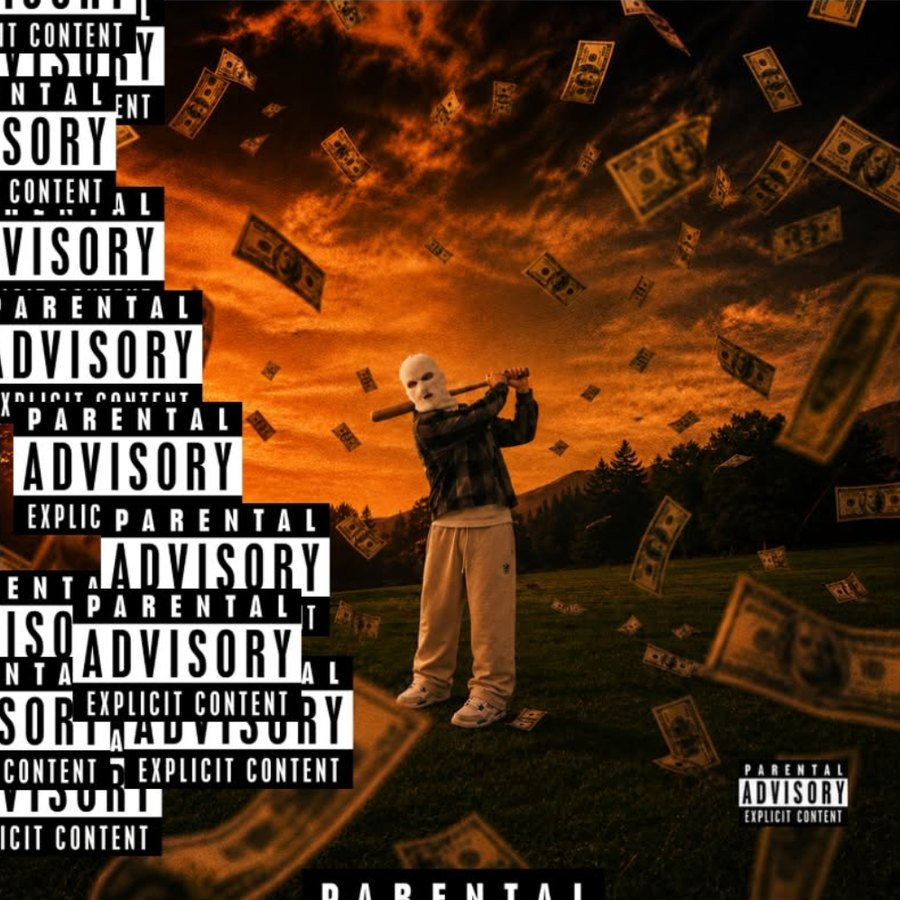
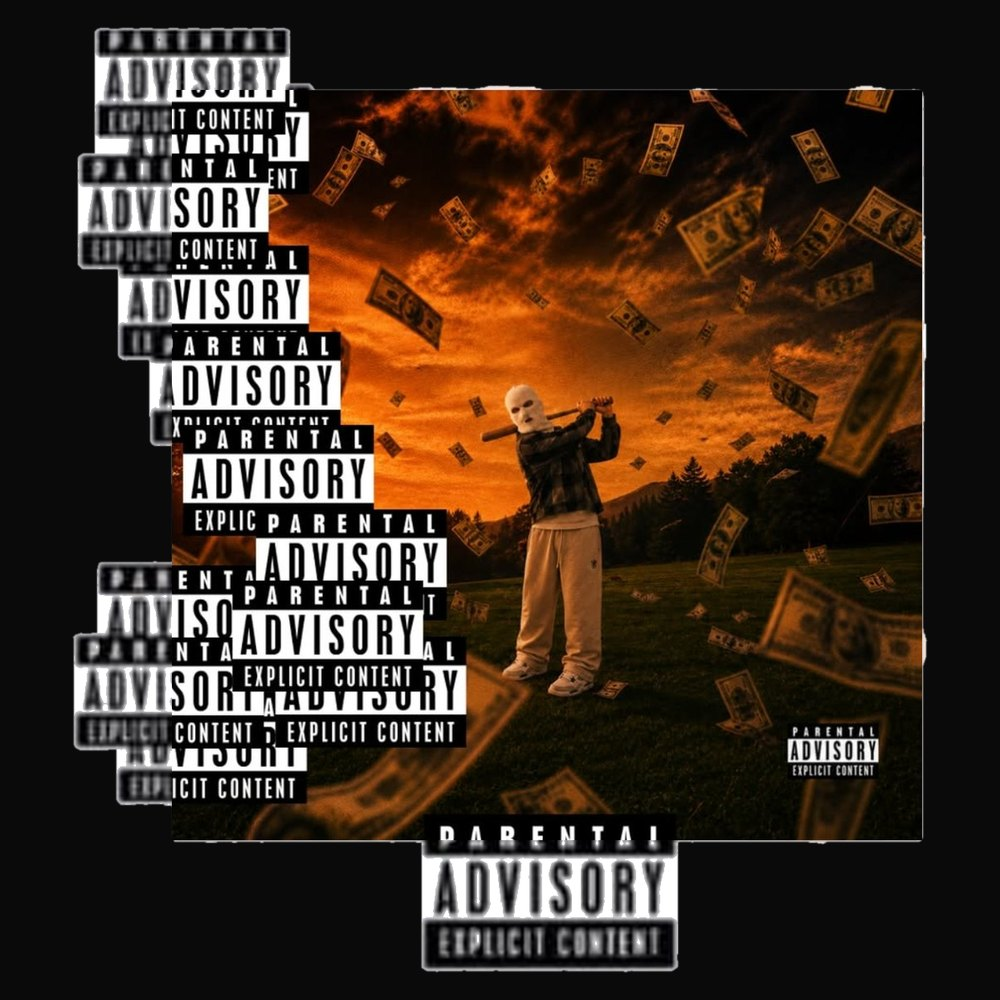
Drop masqué jusqu'à l'ouverture, paroles animées, pochette complète
- Tailles cachées tant que le chrono tourne + aperçu admin (?apercu-drop=1)
- Section Explicit content : paroles animées en alternance avec GRIND / GUTS
- Pochette Spotify : artwork complet (étiquettes qui débordent)
- Bandeau de fin : image d'origine remise
- Fiche produit : photos du clip retirées, correction du scroll

diff --git a/assets/css/main.css b/assets/css/main.css
@@ -228,13 +228,40 @@ a:hover { color: var(--red-hot); }
 .specs dd { margin: 4px 0 0; font-weight: 600; }
 
 /* ---------- Manifeste ---------- */
-.manifesto { position: relative; overflow: hidden; isolation: isolate; background: var(--bg-2); padding-block: clamp(80px, 12vw, 180px); border-block: 1px solid var(--line); }
-.manifesto__text {
-	font-family: var(--display); font-stretch: 62.5%; font-weight: 400;
-	font-size: clamp(38px, 5.2vw, 88px); line-height: .98; text-transform: uppercase;
-	margin: 0; max-width: 24ch;
+.manifesto { position: relative; overflow: hidden; isolation: isolate; background: var(--bg-2); padding-block: clamp(80px, 12vw, 180px); border-block: 1px solid var(--line); text-align: center; }
+/* Paroles : les mots tombent un à un, au rythme du flow (délais posés en JS). */
+.lyrics { display: grid; align-items: center; justify-items: center; text-align: center; font-family: var(--display); font-stretch: 62.5%; font-weight: 400; font-size: clamp(34px, 5.2vw, 88px); line-height: 1; text-transform: uppercase; }
+.lyrics__lines, .lyrics__title { grid-area: 1 / 1; }
+.lyrics__line { margin: 0; }
+.lyrics__line + .lyrics__line { margin-top: .12em; }
+.lyrics em { font-style: italic; color: var(--red); }
+.lyrics__word { display: inline-block; }
+.lyrics--anim .lyrics__word { opacity: 0; transform: translateY(.45em); filter: blur(10px); }
+.lyrics--anim.is-on .lyrics__word { animation: lyric-in .55s cubic-bezier(.2, .7, .2, 1) both; animation-delay: var(--d); }
+.lyrics--anim.is-on em .lyrics__word { animation-name: lyric-punch; }
+
+/* En alternance : GRIND en grand, l'artiste en petit dessous. */
+.lyrics__title { margin: 0; display: none; }
+.lyrics--anim .lyrics__title { display: block; opacity: 0; visibility: hidden; transition: opacity .4s var(--ease), visibility 0s .4s; }
+/* Même rendu que le titre du hero (rouge, étiré en hauteur). */
+.lyrics__grind {
+	display: block; font-weight: 500; font-size: clamp(120px, 24vw, 360px); line-height: .8; color: var(--red);
+	transform: scaleY(1.35); text-shadow: 0 10px 60px rgba(0, 0, 0, .45);
 }
-.manifesto__text em { font-style: italic; color: var(--red); }
+/* Marge = débord vertical du scaleY + espace ; padding-left compense le letter-spacing final. */
+.lyrics__artist { display: block; margin-top: clamp(34px, calc(3.4vw + 16px), 66px); padding-left: .4em; font-family: var(--ui); font-stretch: 75%; font-weight: 600; font-size: clamp(13px, 1.1vw, 17px); letter-spacing: .4em; color: var(--muted); }
+.lyrics__lines { transition: opacity .4s var(--ease); }
+.lyrics--anim.is-title .lyrics__lines { opacity: 0; }
+.lyrics--anim.is-title .lyrics__title { opacity: 1; visibility: visible; transition: opacity .4s var(--ease); }
+.lyrics--anim.is-title .lyrics__grind { animation: titleIn 1.1s var(--ease) .3s both; }
+.lyrics--anim.is-title .lyrics__artist { animation: lyric-in .6s var(--ease) .75s both; }
+.lyrics--anim .lyrics__artist { opacity: 0; transform: translateY(.45em); }
+@keyframes lyric-in { to { opacity: 1; transform: none; filter: none; } }
+@keyframes lyric-punch {
+	0% { opacity: 0; transform: scale(1.8); filter: blur(6px); }
+	60% { opacity: 1; transform: scale(.94); filter: none; }
+	100% { opacity: 1; transform: none; filter: none; }
+}
 
 /* ---------- Spotify ---------- */
 .listen { position: relative; overflow: hidden; isolation: isolate; padding-block: clamp(80px, 11vw, 160px); }
@@ -317,7 +344,9 @@ a:hover { color: var(--red-hot); }
 }
 
 /* ---------- Bandeau CTA ---------- */
-.cta-band { position: relative; height: 72vh; min-height: 460px; max-height: 760px; overflow: hidden; display: grid; place-items: center; isolation: isolate; background: var(--bg-2); border-top: 1px solid var(--line); }
+.cta-band { position: relative; height: 72vh; min-height: 460px; max-height: 760px; overflow: hidden; display: grid; place-items: center; isolation: isolate; }
+.cta-band img { position: absolute; inset: 0; width: 100%; height: 100%; object-fit: cover; z-index: -2; }
+.cta-band__shade { position: absolute; inset: 0; z-index: -1; background: linear-gradient(rgba(11,10,10,.55), rgba(11,10,10,.85)); }
 .cta-band__content { text-align: center; }
 .cta-band__title {
 	font-family: var(--display); font-stretch: 62.5%; font-weight: 500;
@@ -380,8 +409,9 @@ input:focus, textarea:focus, select:focus { outline: none; border-color: var(--i
 /* ---------- WooCommerce : fiche produit ---------- */
 .woocommerce div.product { display: grid; grid-template-columns: 1.2fr 1fr; gap: clamp(28px, 5vw, 80px); align-items: start; }
 .woocommerce div.product div.images, .woocommerce div.product div.summary { width: auto !important; float: none !important; margin: 0 !important; }
-.woocommerce div.product div.summary { position: sticky; top: calc(var(--header-h) + 24px); }
-.woocommerce div.product .woocommerce-tabs, .woocommerce div.product .related { grid-column: 1 / -1; }
+.woocommerce div.product div.summary { position: sticky; top: calc(var(--header-h) + 24px); grid-column: 2; grid-row: 1 / span 2; }
+.woocommerce div.product .woocommerce-tabs { grid-column: 1; }
+.woocommerce div.product .related { grid-column: 1 / -1; }
 .woocommerce div.product div.images img { background: var(--bg-2); }
 .woocommerce div.product div.images .flex-control-thumbs { display: grid; grid-template-columns: repeat(6, 1fr); gap: 8px; margin-top: 8px !important; }
 .woocommerce div.product div.images .flex-control-thumbs li { width: auto !important; float: none !important; }
@@ -449,7 +479,7 @@ input:focus, textarea:focus, select:focus { outline: none; border-color: var(--i
 /* ---------- Responsive ---------- */
 @media (max-width: 960px) {
 	.woocommerce div.product { grid-template-columns: 1fr; }
-	.woocommerce div.product div.summary { position: static; }
+	.woocommerce div.product div.summary { position: static; grid-column: auto; grid-row: auto; }
 	.footer-news { grid-template-columns: 1fr; }
 	.footer-grid { grid-template-columns: 1fr 1fr; }
 	.woocommerce ul.products { grid-template-columns: repeat(2, 1fr); }
@@ -576,7 +606,14 @@ input:focus, textarea:focus, select:focus { outline: none; border-color: var(--i
 .hero .waitlist { margin: 0 auto; }
 .drop-box { border: 1px solid var(--line); padding: 24px; margin: 8px 0 22px; background: var(--bg-2); }
 .drop-box .eyebrow { color: var(--red-hot); }
-.drop-box .size-row { margin-bottom: 22px; }
+
+/* ---------- Aperçu admin du drop ouvert ---------- */
+.preview-bar {
+	position: fixed; left: 50%; bottom: 16px; transform: translateX(-50%); z-index: 1000;
+	display: flex; gap: 14px; align-items: center; padding: 10px 16px; max-width: calc(100% - 32px);
+	background: var(--red); color: #fff; font-size: 13px; font-weight: 600; box-shadow: 0 8px 30px rgba(0,0,0,.5);
+}
+.preview-bar a { color: #fff; text-decoration: underline; white-space: nowrap; }
 
 /* ---------- Stock par taille ---------- */
 .size-chip, .size-btn { position: relative; }

diff --git a/assets/js/main.js b/assets/js/main.js
@@ -45,6 +45,61 @@
 		} );
 	}
 
+	// Paroles : chaque mot devient un span avec son délai ; en boucle, les paroles
+	// alternent avec GRIND / GUTS tant que la section est à l'écran.
+	var lyrics = document.querySelector( '.lyrics' );
+	if ( lyrics && 'IntersectionObserver' in window && window.matchMedia( '(prefers-reduced-motion: no-preference)' ).matches ) {
+		var t = 400; // laisse GRIND s'effacer avant le premier mot
+		lyrics.querySelectorAll( '.lyrics__line' ).forEach( function ( line ) {
+			[ line ].concat( Array.prototype.slice.call( line.querySelectorAll( 'em' ) ) ).forEach( function ( el ) {
+				Array.prototype.slice.call( el.childNodes ).forEach( function ( node ) {
+					if ( node.nodeType !== 3 ) return;
+					var frag = document.createDocumentFragment();
+					node.textContent.split( /(\s+)/ ).forEach( function ( part ) {
+						if ( ! part ) return;
+						if ( /^\s+$/.test( part ) ) {
+							frag.appendChild( document.createTextNode( part ) );
+							return;
+						}
+						var w = document.createElement( 'span' );
+						w.className = 'lyrics__word';
+						w.textContent = part;
+						frag.appendChild( w );
+					} );
+					el.replaceChild( frag, node );
+				} );
+			} );
+			line.querySelectorAll( '.lyrics__word' ).forEach( function ( w ) {
+				w.style.setProperty( '--d', t + 'ms' );
+				t += 170;
+			} );
+			t += 450; // respiration entre deux mesures
+		} );
+		var timer = 0;
+		var playLyrics = function () {
+			lyrics.classList.remove( 'is-title', 'is-on' );
+			void lyrics.offsetWidth; // relance les animations
+			lyrics.classList.add( 'is-on' );
+			timer = setTimeout( showTitle, t + 1800 );
+		};
+		var showTitle = function () {
+			lyrics.classList.add( 'is-title' );
+			timer = setTimeout( playLyrics, 3800 );
+		};
+		lyrics.classList.add( 'lyrics--anim' );
+		new IntersectionObserver( function ( entries ) {
+			entries.forEach( function ( e ) {
+				if ( e.intersectionRatio >= 0.5 && ! timer ) {
+					playLyrics();
+				} else if ( ! e.isIntersecting ) {
+					clearTimeout( timer );
+					timer = 0;
+					lyrics.classList.remove( 'is-on', 'is-title' );
+				}
+			} );
+		}, { threshold: [ 0, 0.5 ] } ).observe( lyrics );
+	}
+
 	// Fiche produit : boutons de taille à la place du <select>, avec l'état du stock.
 	var LOW = 5;
 	document.querySelectorAll( '.variations_form select' ).forEach( function ( select ) {

diff --git a/inc/drop.php b/inc/drop.php
@@ -40,7 +40,36 @@ function grind_drop_timestamp() {
 /** La boutique est-elle encore fermée ? */
 function grind_drop_locked() {
 	$ts = grind_drop_timestamp();
-	return $ts && time() < $ts;
+	return $ts && time() < $ts && ! grind_drop_preview();
+}
+
+/* ---------- Aperçu admin : le site tel qu'à la fin du chrono ---------- */
+
+// ?apercu-drop=1 active l'aperçu (cookie de session), ?apercu-drop=0 le coupe.
+add_action( 'init', function () {
+	if ( ! isset( $_GET['apercu-drop'] ) || ! current_user_can( 'manage_options' ) ) {
+		return;
+	}
+	$on = '1' === $_GET['apercu-drop'];
+	setcookie( 'grind_apercu_drop', $on ? '1' : '', $on ? 0 : 1, COOKIEPATH, COOKIE_DOMAIN );
+	$_COOKIE['grind_apercu_drop'] = $on ? '1' : '';
+} );
+
+/** Aperçu actif ? (admins uniquement) */
+function grind_drop_preview() {
+	return ! empty( $_COOKIE['grind_apercu_drop'] ) && current_user_can( 'manage_options' );
+}
+
+/** Bandeau rappelant que l'aperçu est actif. */
+function grind_drop_preview_bar() {
+	$ts = grind_drop_timestamp();
+	if ( ! grind_drop_preview() || ! $ts || time() >= $ts ) {
+		return;
+	}
+	printf(
+		'<div class="preview-bar">Aperçu : drop ouvert (visible par toi seul) <a href="%s">Quitter l\'aperçu</a></div>',
+		esc_url( add_query_arg( 'apercu-drop', '0' ) )
+	);
 }
 
 /** Date lisible : « lundi 6 octobre à 20h ». */
@@ -67,16 +96,20 @@ add_action( 'woocommerce_single_product_summary', function () {
 }, 1 );
 
 function grind_drop_box() {
-	global $product;
 	echo '<div class="drop-box">';
 	echo '<p class="eyebrow">Ouverture ' . esc_html( grind_drop_label() ) . '</p>';
 	grind_countdown();
-	if ( $product ) {
-		grind_size_preview( $product );
-	}
 	grind_waitlist_form( 'Me prévenir', 'produit' );
 	echo '</div>';
 }
+
+// Les tailles restent cachées jusqu'à l'ouverture (onglet « Informations complémentaires »).
+add_filter( 'woocommerce_product_tabs', function ( $tabs ) {
+	if ( grind_drop_locked() ) {
+		unset( $tabs['additional_information'] );
+	}
+	return $tabs;
+}, 20 );
 
 /* ---------- Composants ---------- */
 
@@ -161,25 +194,6 @@ function grind_stock_note( $s ) {
 		return 'Plus que ' . $s['qty'];
 	}
 	return '';
-}
-
-/** Tailles en lecture seule (boutique fermée) avec l'état du stock. */
-function grind_size_preview( $product ) {
-	$sizes = grind_size_stock( $product );
-	if ( ! $sizes ) {
-		return;
-	}
-	echo '<div class="size-row size-row--preview">';
-	foreach ( $sizes as $s ) {
-		$note = grind_stock_note( $s );
-		printf(
-			'<span class="size-chip%s">%s%s</span>',
-			$s['in_stock'] ? ( $note ? ' is-low' : '' ) : ' is-out',
-			esc_html( $s['name'] ),
-			$note ? '<em>' . esc_html( $note ) . '</em>' : ''
-		);
-	}
-	echo '</div>';
 }
 
 /* ---------- Liste d'attente : stockage + API ---------- */

diff --git a/front-page.php b/front-page.php
@@ -77,7 +77,7 @@ $total = $product ? grind_total_stock( $product ) : null;
 				<p class="drop__price"><?php echo wp_kses_post( $product->get_price_html() ); ?></p>
 				<div class="drop__desc"><?php echo wp_kses_post( wpautop( $product->get_short_description() ) ); ?></div>
 
-				<?php if ( $sizes ) : ?>
+				<?php if ( $sizes && ! $locked ) : ?>
 					<p class="label">Taille</p>
 					<div class="size-row">
 						<?php foreach ( $sizes as $slug => $s ) :
@@ -119,7 +119,15 @@ $total = $product ? grind_total_stock( $product ) : null;
 	<div class="grain"></div>
 	<div class="wrap">
 		<p class="eyebrow">Explicit content</p>
-		<p class="manifesto__text">Des toits du centre aux parkings <em>du sous-sol</em>, on porte ce qu'on vit.</p>
+		<div class="lyrics" role="img" aria-label="Faut que je grind, que je grind, ok. J'enlève le masque, le masque, ok. Je suis dans la trap, dans la trap, ok. J'ai pas de part mais tu veux croquer.">
+			<div class="lyrics__lines" aria-hidden="true">
+				<p class="lyrics__line">Faut que je grind que je grind <em>ok</em></p>
+				<p class="lyrics__line">J'enlève le masque le masque <em>ok</em></p>
+				<p class="lyrics__line">Je suis dans la trap dans la trap <em>ok</em></p>
+				<p class="lyrics__line">J'ai pas de part mais tu veux <em>croquer</em></p>
+			</div>
+			<p class="lyrics__title" aria-hidden="true"><span class="lyrics__grind">GRIND</span><span class="lyrics__artist">GUTS</span></p>
+		</div>
 	</div>
 </section>
 
@@ -154,7 +162,8 @@ $total = $product ? grind_total_stock( $product ) : null;
 </section>
 
 <section class="cta-band">
-	<div class="grain"></div>
+	<img src="<?php echo grind_asset( 'img/lb-closeup.jpg' ); ?>" alt="" loading="lazy">
+	<div class="cta-band__shade"></div>
 	<div class="cta-band__content">
 		<h2 class="cta-band__title">GRIND</h2>
 		<a class="btn btn--red" href="<?php echo esc_url( $link ); ?>">Récupérer le tee</a>

diff --git a/playground/setup.php b/playground/setup.php
@@ -66,11 +66,7 @@ function grind_demo_import( $file ) {
 }
 $dir     = get_stylesheet_directory();
 $front   = grind_demo_import( $dir . '/assets/img/tee-front.jpg' );
-$gallery = array();
-foreach ( array( 'grind-tee-porte-1', 'grind-tee-closeup', 'grind-tee-porte-2', 'grind-tee-porte-3' ) as $f ) {
-	$gallery[] = grind_demo_import( $dir . '/playground/img/' . $f . '.jpg' );
-}
-$gallery[] = grind_demo_import( $dir . '/assets/img/tee-front-light.jpg' );
+$gallery = array( grind_demo_import( $dir . '/assets/img/tee-front-light.jpg' ) );
 
 // Attribut "Taille".
 $attr_id = wc_attribute_taxonomy_id_by_name( 'pa_taille' );

diff --git a/header.php b/header.php
@@ -11,6 +11,7 @@
 <body <?php body_class(); ?>>
 <?php wp_body_open(); ?>
 <a class="skip-link" href="#content">Aller au contenu</a>
+<?php grind_drop_preview_bar(); ?>
 
 <div class="announce" aria-label="Annonces">
 	<div class="announce__track">

diff --git a/functions.php b/functions.php
@@ -5,7 +5,7 @@
 
 defined( 'ABSPATH' ) || exit;
 
-define( 'GRIND_VERSION', '0.3.8' );
+define( 'GRIND_VERSION', '0.4.3' );
 
 require_once __DIR__ . '/inc/drop.php';
 
